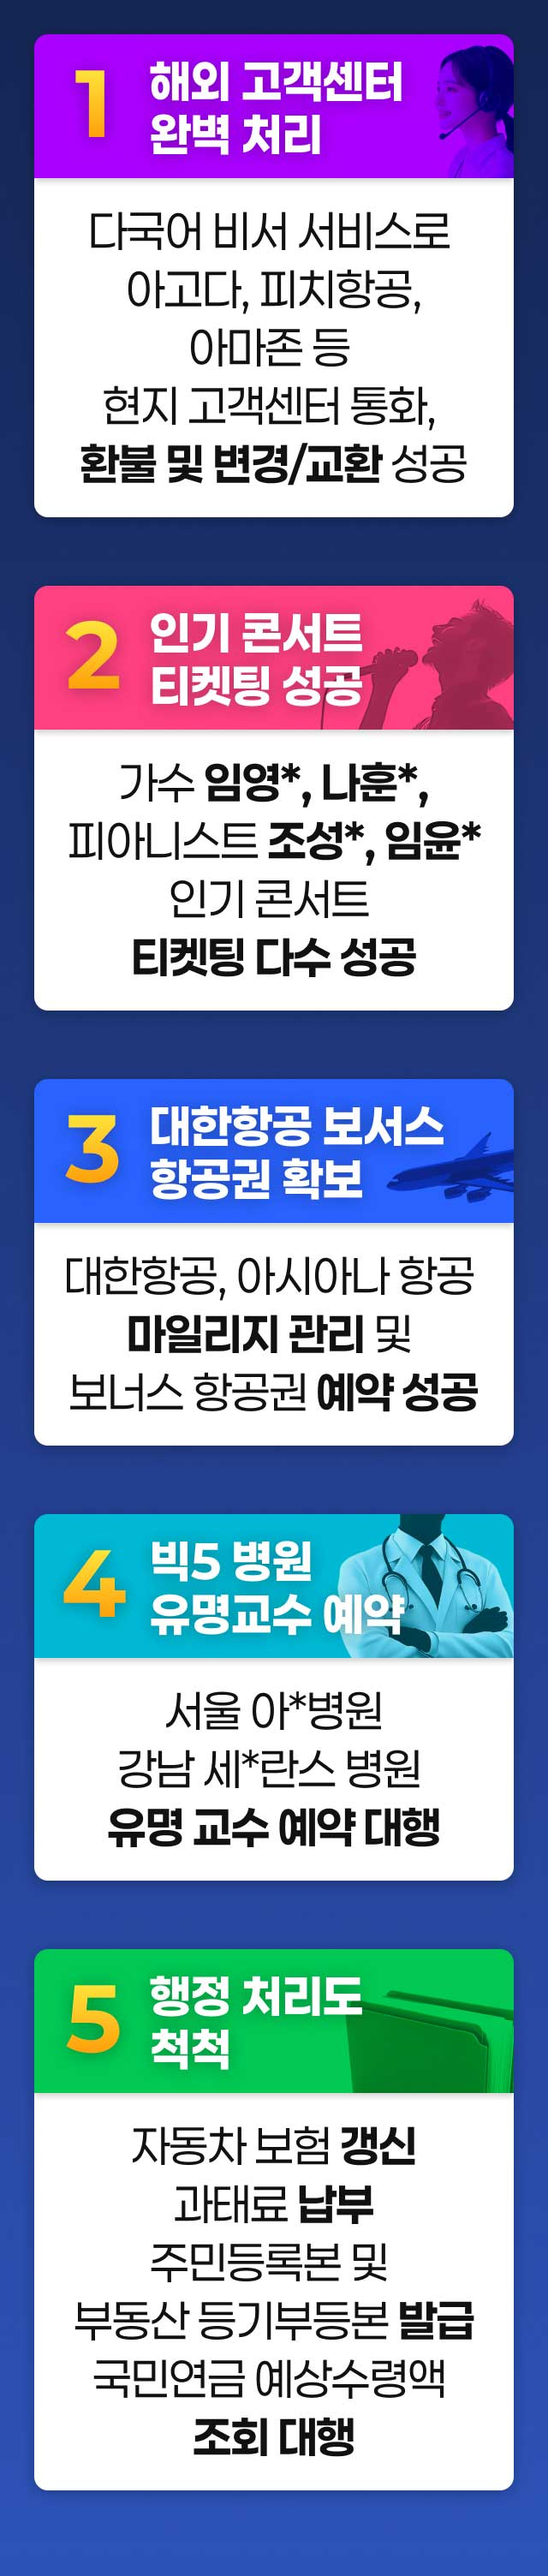
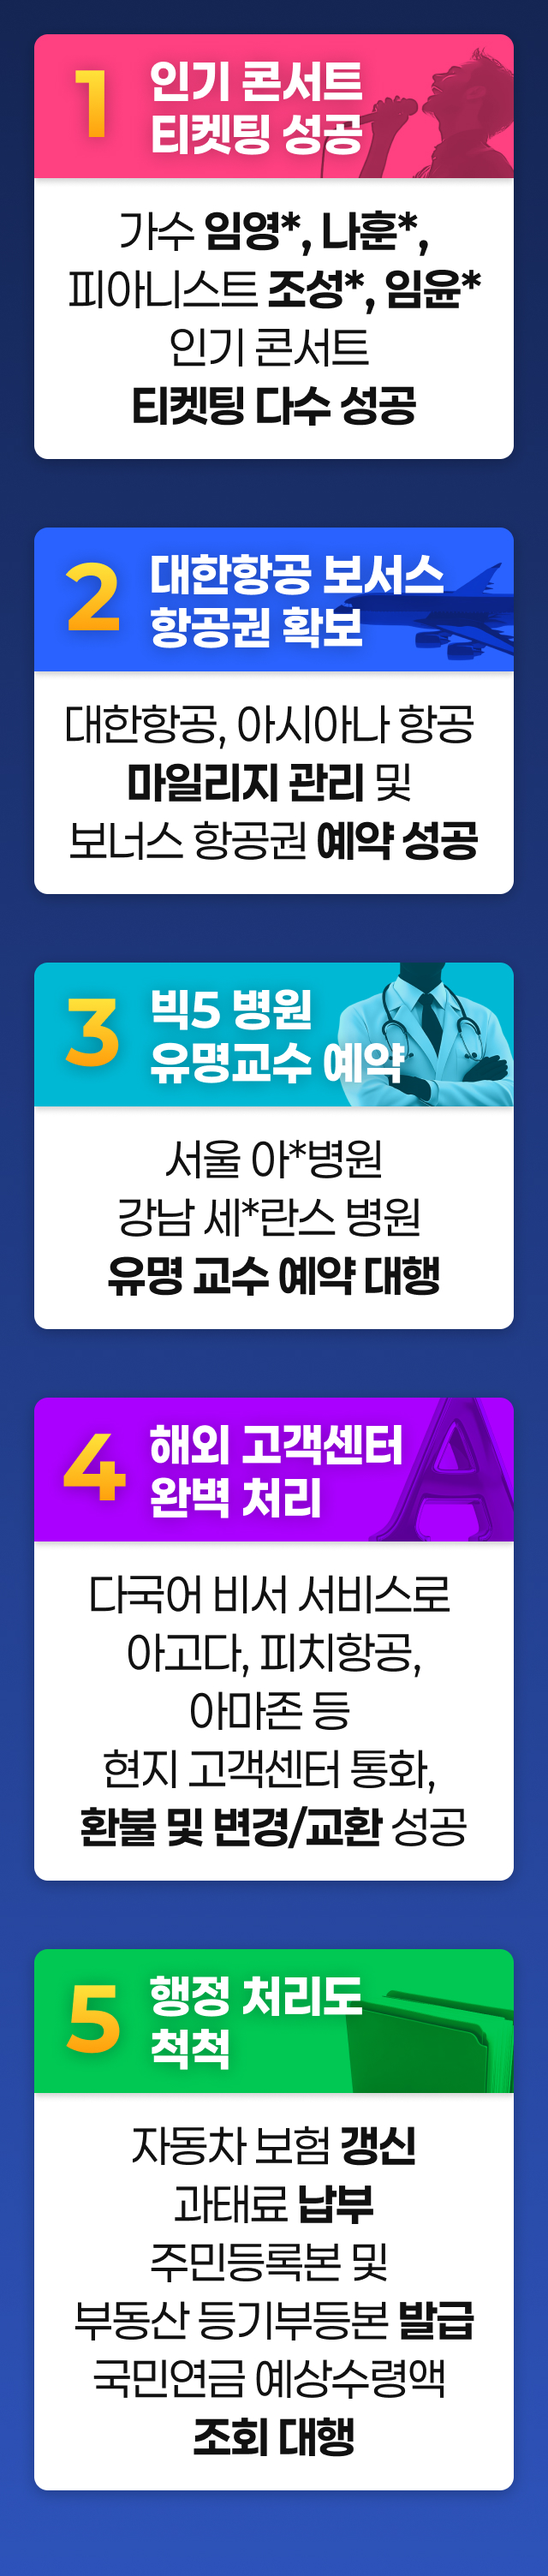
new page

diff --git a/promotion/20250324.html b/promotion/20250324.html
@@ -1,0 +1,374 @@
+<!doctype html>
+<html lang="kr">
+  <head>
+    <meta charset="utf-8" />
+    <meta name="viewport" content="width=device-width, initial-scale=1" />
+    
+    <!-- Favicon -->
+    <link rel="shortcut icon" href="../assets/favicon/favicon.ico" type="image/x-icon" />
+    
+    <!-- Map CSS -->
+    <link rel="stylesheet" href="https://api.mapbox.com/mapbox-gl-js/v0.53.0/mapbox-gl.css" />
+    
+    <!-- Libs CSS -->
+    <link rel="stylesheet" href="../assets/css/libs.bundle.css" />
+    
+    <!-- Theme CSS -->
+    <link rel="stylesheet" href="../assets/css/theme.bundle.css" />
+    
+    <!-- OpenGraphProtocol -->
+    <meta property="og:title" content="똑비 멤버십 1주년 프로모션" />
+    <meta property="og:url" content="../promotion/index.html/" />
+    <meta property="og:image" content="../assets/img/ogp_promotion.jpg" />
+    <meta
+          property="og:description"
+          content="지금 가입하면 똑비 가격 인상 없이 평생 지금 가격 그대로!"
+    />
+    
+    <link rel="stylesheet" href="../custom.css" />
+    <link rel="stylesheet" href="./promotion.css" />
+
+    <!-- <link rel="stylesheet" href="../custom_prime.css" /> -->
+
+
+    <!-- Title -->
+    <title>똑비 멤버십 1주년 프로모션</title>
+
+    
+  </head>
+  <!-- Google tag (gtag.js) -->
+  <script async src="https://www.googletagmanager.com/gtag/js?id=G-RDBWMP9MGX"></script>
+  <script>
+    window.dataLayer = window.dataLayer || [];
+    function gtag(){dataLayer.push(arguments);}
+    gtag('js', new Date());
+
+    gtag('config', 'G-RDBWMP9MGX');
+  </script>
+
+  <body>
+
+    
+    <section id="Contents">
+      <div class="container_pc">
+        <div class="container_mo">
+          <img src="./assets/20250324/1.jpg" alt="">
+          <img src="./assets/20250324/2.jpg" alt="">
+          <img src="./assets/20250324/3.jpg" alt="">
+          <img src="./assets/20250324/4.jpg" alt="">
+          <img src="./assets/20250324/5.jpg" alt="">
+          <img src="./assets/20250324/6.jpg" alt="">
+          <img src="./assets/20250324/7.jpg" alt="">
+        </div>
+      </div>
+      
+    </section>
+
+    <!-- <section id="List">
+      <ul>
+        <li>함동수 010-XXXX-3497</li>
+        <li>함동수 010-XXXX-3497</li>
+        <li>함동수 010-XXXX-3497</li>
+        <li>함동수 010-XXXX-3497</li>
+        <li>함동수 010-XXXX-3497</li>
+        <li>함동수 010-XXXX-3497</li>
+        <li>함동수 010-XXXX-3497</li>
+        <li>함동수 010-XXXX-3497</li>
+        <li>함동수 010-XXXX-3497</li>
+        <li>함동수 010-XXXX-3497</li>
+        <li>함동수 010-XXXX-3497</li>
+        <li>함동수 010-XXXX-3497</li>
+        <li>함동수 010-XXXX-3497</li>
+        <li>함동수 010-XXXX-3497</li>
+        <li>함동수 010-XXXX-3497</li>
+        <li>함동수 010-XXXX-3497</li>
+        <li>함동수 010-XXXX-3497</li>
+        <li>함동수 010-XXXX-3497</li>
+        <li>함동수 010-XXXX-3497</li>
+        <li>함동수 010-XXXX-3497</li>
+        <li>함동수 010-XXXX-3497</li>
+        <li>함동수 010-XXXX-3497</li>
+        <li>함동수 010-XXXX-3497</li>
+        <li>함동수 010-XXXX-3497</li>
+        <li>함동수 010-XXXX-3497</li>
+        <li>함동수 010-XXXX-3497</li>
+        <li>함동수 010-XXXX-3497</li>
+        <li>함동수 010-XXXX-3497</li>
+        <li>함동수 010-XXXX-3497</li>
+        <li>함동수 010-XXXX-3497</li>
+        <li>함동수 010-XXXX-3497</li>
+        <li>함동수 010-XXXX-3497</li>
+        <li>함동수 010-XXXX-3497</li>
+        <li>함동수 010-XXXX-3497</li>
+        <li>함동수 010-XXXX-3497</li>
+        <li>함동수 010-XXXX-3497</li>
+        <li>함동수 010-XXXX-3497</li>
+        <li>함동수 010-XXXX-3497</li>
+        <li>함동수 010-XXXX-3497</li>
+        <li>함동수 010-XXXX-3497</li>
+        <li>함동수 010-XXXX-3497</li>
+        <li>함동수 010-XXXX-3497</li>
+        <li>함동수 010-XXXX-3497</li>
+        <li>함동수 010-XXXX-3497</li>
+        <li>함동수 010-XXXX-3497</li>
+        <li>함동수 010-XXXX-3497</li>
+        <li>함동수 010-XXXX-3497</li>
+        <li>함동수 010-XXXX-3497</li>
+        <li>함동수 010-XXXX-3497</li>
+        <li>함동수 010-XXXX-3497</li>
+        <li>함동수 010-XXXX-3497</li>
+        <li>함동수 010-XXXX-3497</li>
+        <li>함동수 010-XXXX-3497</li>
+        <li>함동수 010-XXXX-3497</li>
+        <li>함동수 010-XXXX-3497</li>
+        <li>함동수 010-XXXX-3497</li>
+        <li>함동수 010-XXXX-3497</li>
+        <li>함동수 010-XXXX-3497</li>
+        <li>함동수 010-XXXX-3497</li>
+        <li>함동수 010-XXXX-3497</li>
+        <li>함동수 010-XXXX-3497</li>
+        <li>함동수 010-XXXX-3497</li>
+        <li>함동수 010-XXXX-3497</li>
+        <li>함동수 010-XXXX-3497</li>
+        <li>함동수 010-XXXX-3497</li>
+        <li>함동수 010-XXXX-3497</li>
+        <li>함동수 010-XXXX-3497</li>
+        <li>함동수 010-XXXX-3497</li>
+        <li>함동수 010-XXXX-3497</li>
+        <li>함동수 010-XXXX-3497</li>
+        <li>함동수 010-XXXX-3497</li>
+        <li>함동수 010-XXXX-3497</li>
+        <li>함동수 010-XXXX-3497</li>
+        <li>함동수 010-XXXX-3497</li>
+        <li>함동수 010-XXXX-3497</li>
+        <li>함동수 010-XXXX-3497</li>
+        <li>함동수 010-XXXX-3497</li>
+        <li>함동수 010-XXXX-3497</li>
+        <li>함동수 010-XXXX-3497</li>
+        <li>함동수 010-XXXX-3497</li>
+        <li>함동수 010-XXXX-3497</li>
+        <li>함동수 010-XXXX-3497</li>
+        <li>함동수 010-XXXX-3497</li>
+        <li>함동수 010-XXXX-3497</li>
+        <li>함동수 010-XXXX-3497</li>
+        <li>함동수 010-XXXX-3497</li>
+        <li>함동수 010-XXXX-3497</li>
+        <li>함동수 010-XXXX-3497</li>
+        <li>함동수 010-XXXX-3497</li>
+        <li>함동수 010-XXXX-3497</li>
+        <li>함동수 010-XXXX-3497</li>
+        <li>함동수 010-XXXX-3497</li>
+        <li>함동수 010-XXXX-3497</li>
+        <li>함동수 010-XXXX-3497</li>
+        <li>함동수 010-XXXX-3497</li>
+        <li>함동수 010-XXXX-3497</li>
+        <li>함동수 010-XXXX-3497</li>
+        <li>함동수 010-XXXX-3497</li>
+        <li>함동수 010-XXXX-3497</li>
+        <li>함동수 010-XXXX-3497</li>
+        <li>함동수 010-XXXX-3497</li>
+        <li>함동수 010-XXXX-3497</li>
+        <li>함동수 010-XXXX-3497</li>
+        <li>함동수 010-XXXX-3497</li>
+        <li>함동수 010-XXXX-3497</li>
+        <li>함동수 010-XXXX-3497</li>
+        <li>함동수 010-XXXX-3497</li>
+        <li>함동수 010-XXXX-3497</li>
+        <li>함동수 010-XXXX-3497</li>
+        <li>함동수 010-XXXX-3497</li>
+        <li>함동수 010-XXXX-3497</li>
+        <li>함동수 010-XXXX-3497</li>
+        <li>함동수 010-XXXX-3497</li>
+        <li>함동수 010-XXXX-3497</li>
+        <li>함동수 010-XXXX-3497</li>
+        <li>함동수 010-XXXX-3497</li>
+        <li>함동수 010-XXXX-3497</li>
+        <li>함동수 010-XXXX-3497</li>
+        <li>함동수 010-XXXX-3497</li>
+        <li>함동수 010-XXXX-3497</li>
+        <li>함동수 010-XXXX-3497</li>
+        <li>함동수 010-XXXX-3497</li>
+        <li>함동수 010-XXXX-3497</li>
+        <li>함동수 010-XXXX-3497</li>
+        <li>함동수 010-XXXX-3497</li>
+        <li>함동수 010-XXXX-3497</li>
+        <li>함동수 010-XXXX-3497</li>
+        <li>함동수 010-XXXX-3497</li>
+        <li>함동수 010-XXXX-3497</li>
+        <li>함동수 010-XXXX-3497</li>
+        <li>함동수 010-XXXX-3497</li>
+        <li>함동수 010-XXXX-3497</li>
+        <li>함동수 010-XXXX-3497</li>
+        <li>함동수 010-XXXX-3497</li>
+        <li>함동수 010-XXXX-3497</li>
+        <li>함동수 010-XXXX-3497</li>
+        <li>함동수 010-XXXX-3497</li>
+        <li>함동수 010-XXXX-3497</li>
+        <li>함동수 010-XXXX-3497</li>
+        <li>함동수 010-XXXX-3497</li>
+        <li>함동수 010-XXXX-3497</li>
+        <li>함동수 010-XXXX-3497</li>
+        <li>함동수 010-XXXX-3497</li>
+        <li>함동수 010-XXXX-3497</li>
+        <li>함동수 010-XXXX-3497</li>
+        <li>함동수 010-XXXX-3497</li>
+        <li>함동수 010-XXXX-3497</li>
+        <li>함동수 010-XXXX-3497</li>
+        <li>함동수 010-XXXX-3497</li>
+        <li>함동수 010-XXXX-3497</li>
+      </ul>
+    </section> -->
+
+    <section id="Action">
+      
+        <button onclick="useDdokbiPromotion()" class="btn btn-primary shadow lift me-1" target="_blank">
+          멤버십 가입하기
+          <!-- <i class="fe fe-arrow-right d-none d-md-inline ms-3"></i> -->
+        </button>
+      
+    </section>
+    
+
+    <!-- JAVASCRIPT -->
+    <!-- Map JS -->
+    <script src='https://api.mapbox.com/mapbox-gl-js/v0.53.0/mapbox-gl.js'></script>
+    
+    <!-- Vendor JS -->
+    <script src="../assets/js/vendor.bundle.js"></script>
+    
+    <!-- Theme JS -->
+    <!-- <script src="../assets/js/theme.bundle.js"></script> -->
+
+    <!-- import click func -->
+    <script src="../assets/js/functions.js"></script>
+
+    <!-- some other functions by hndmin -->
+    <script type="text/javascript">
+
+      window.addEventListener('scroll', function() {
+        var scrollPosition = window.scrollY || document.documentElement.scrollTop;
+        if(scrollPosition > 100){
+          document.getElementById("Action").classList.add("active");
+        }else{
+          document.getElementById("Action").classList.remove("active");
+        }
+        // console.log('Current scroll position:', scrollPosition);
+      });
+
+
+
+
+
+
+
+      // var desiredUrl = "../360F.html";
+      // window.location.replace(desiredUrl);
+
+
+      // window.onbeforeunload = function() {
+      //   history.pushState(null, null, '360F.html');
+    	// 	console.log("sssssssss");
+    	// };
+
+
+      //const func = require('../js/user.js');
+      //import{checkRadioA} from '../js/user.js';
+
+      // function closeModal(){
+      //   document.getElementById("Modal").style.display = "none";
+      // }
+
+
+
+      // SCREEN SIZE DETECTION ////////////////////////////////////////////////////////
+      // var screenWidth = window.innerWidth;
+      // var screenMode = 0; // Desktop: 0  Mobile: 1
+      // function screenSizeDetect(){
+      //   //768px
+      //   screenWidth = window.innerWidth;
+      //   if(screenWidth < 768){
+      //       //console.log("mobile!");
+      //       screenMode = 1;
+      //   }else{
+      //       //console.log("desktop!");
+      //       screenMode = 0;
+      //   }
+      // }
+      // function applyTempSetting(){
+      //   if(screenMode == 1){
+      //       //console.log("mobile!");
+            
+
+      //   }else{
+      //       //console.log("desktop!");
+
+      //   }
+      // }
+
+
+
+      // function check(){
+      //     console.log("checkcheck~");
+      // }
+
+      // IMAGE UPDATE ////////////////////////////////////////////////////////
+    //   function updateImg(listIndex, btnIndex){
+    //       console.log(listIndex + " , "  + btnIndex);
+
+    //       var screenState;
+    //       var fileType;
+    //       if (screenMode == 0){
+    //           screenState = 'desktop';
+    //           fileType = 'png';
+    //       }else{
+    //           screenState = 'mobile';
+    //           fileType = 'png';
+    //       }
+    //       document.getElementById("screen" + listIndex).src = '../assets/img/screen/' + listIndex + '/' + + btnIndex + '.' + fileType;
+    //       console.log("updated!");
+    //   }
+
+
+
+
+    //   window.onload = function(){
+    //     screenSizeDetect();
+
+    //     var tempList = [5];
+    //     for (var i = 0; i < 5; i++) {
+    //       tempList[i] = document.getElementsByClassName("HowToUse")[i];
+    //       console.log(tempList[i]);
+
+    //       for (var j = 1; j > -1; j--) {
+    //         //console.log("worked");
+    //         tempList[i].getElementsByClassName("btn-check")[j].classList.add("btn" + j);
+
+    //         // add click  Event
+    //         tempList[i].getElementsByClassName("btn")[j].setAttribute("onclick",updateImg(i,j));
+    //         //tempList[i].getElementsByClassName("btn")[j].onclick = updateImg(i,j);
+    //         //tempList[i].getElementsByClassName("btn-check")[j]/addEventListener('click', updateImg(i,j));
+    //         //tempList[i].getElementsByClassName("btn-check")[j].onclick = function(){updateImg(i,j)};
+    //         //tempList[i].getElementsByClassName("btn-check")[j].addEventListener('click', updateImg(i, j));
+
+    //       }
+    //     }
+    //   }
+    //   function live() {
+    //     screenSizeDetect();
+    //   }
+    //   setInterval(live, 100);
+    // 
+    </script>
+    <script type="text/javascript">
+      (function(w, d, a){
+          w.__beusablerumclient__ = {
+              load : function(src){
+                  var b = d.createElement("script");
+                  b.src = src; b.async=true; b.type = "text/javascript";
+                  d.getElementsByTagName("head")[0].appendChild(b);
+              }
+          };w.__beusablerumclient__.load(a + "?url=" + encodeURIComponent(d.URL));
+      })(window, document, "//rum.beusable.net/load/b250319e182136u382");
+      </script>
+  </body>
+</html>
